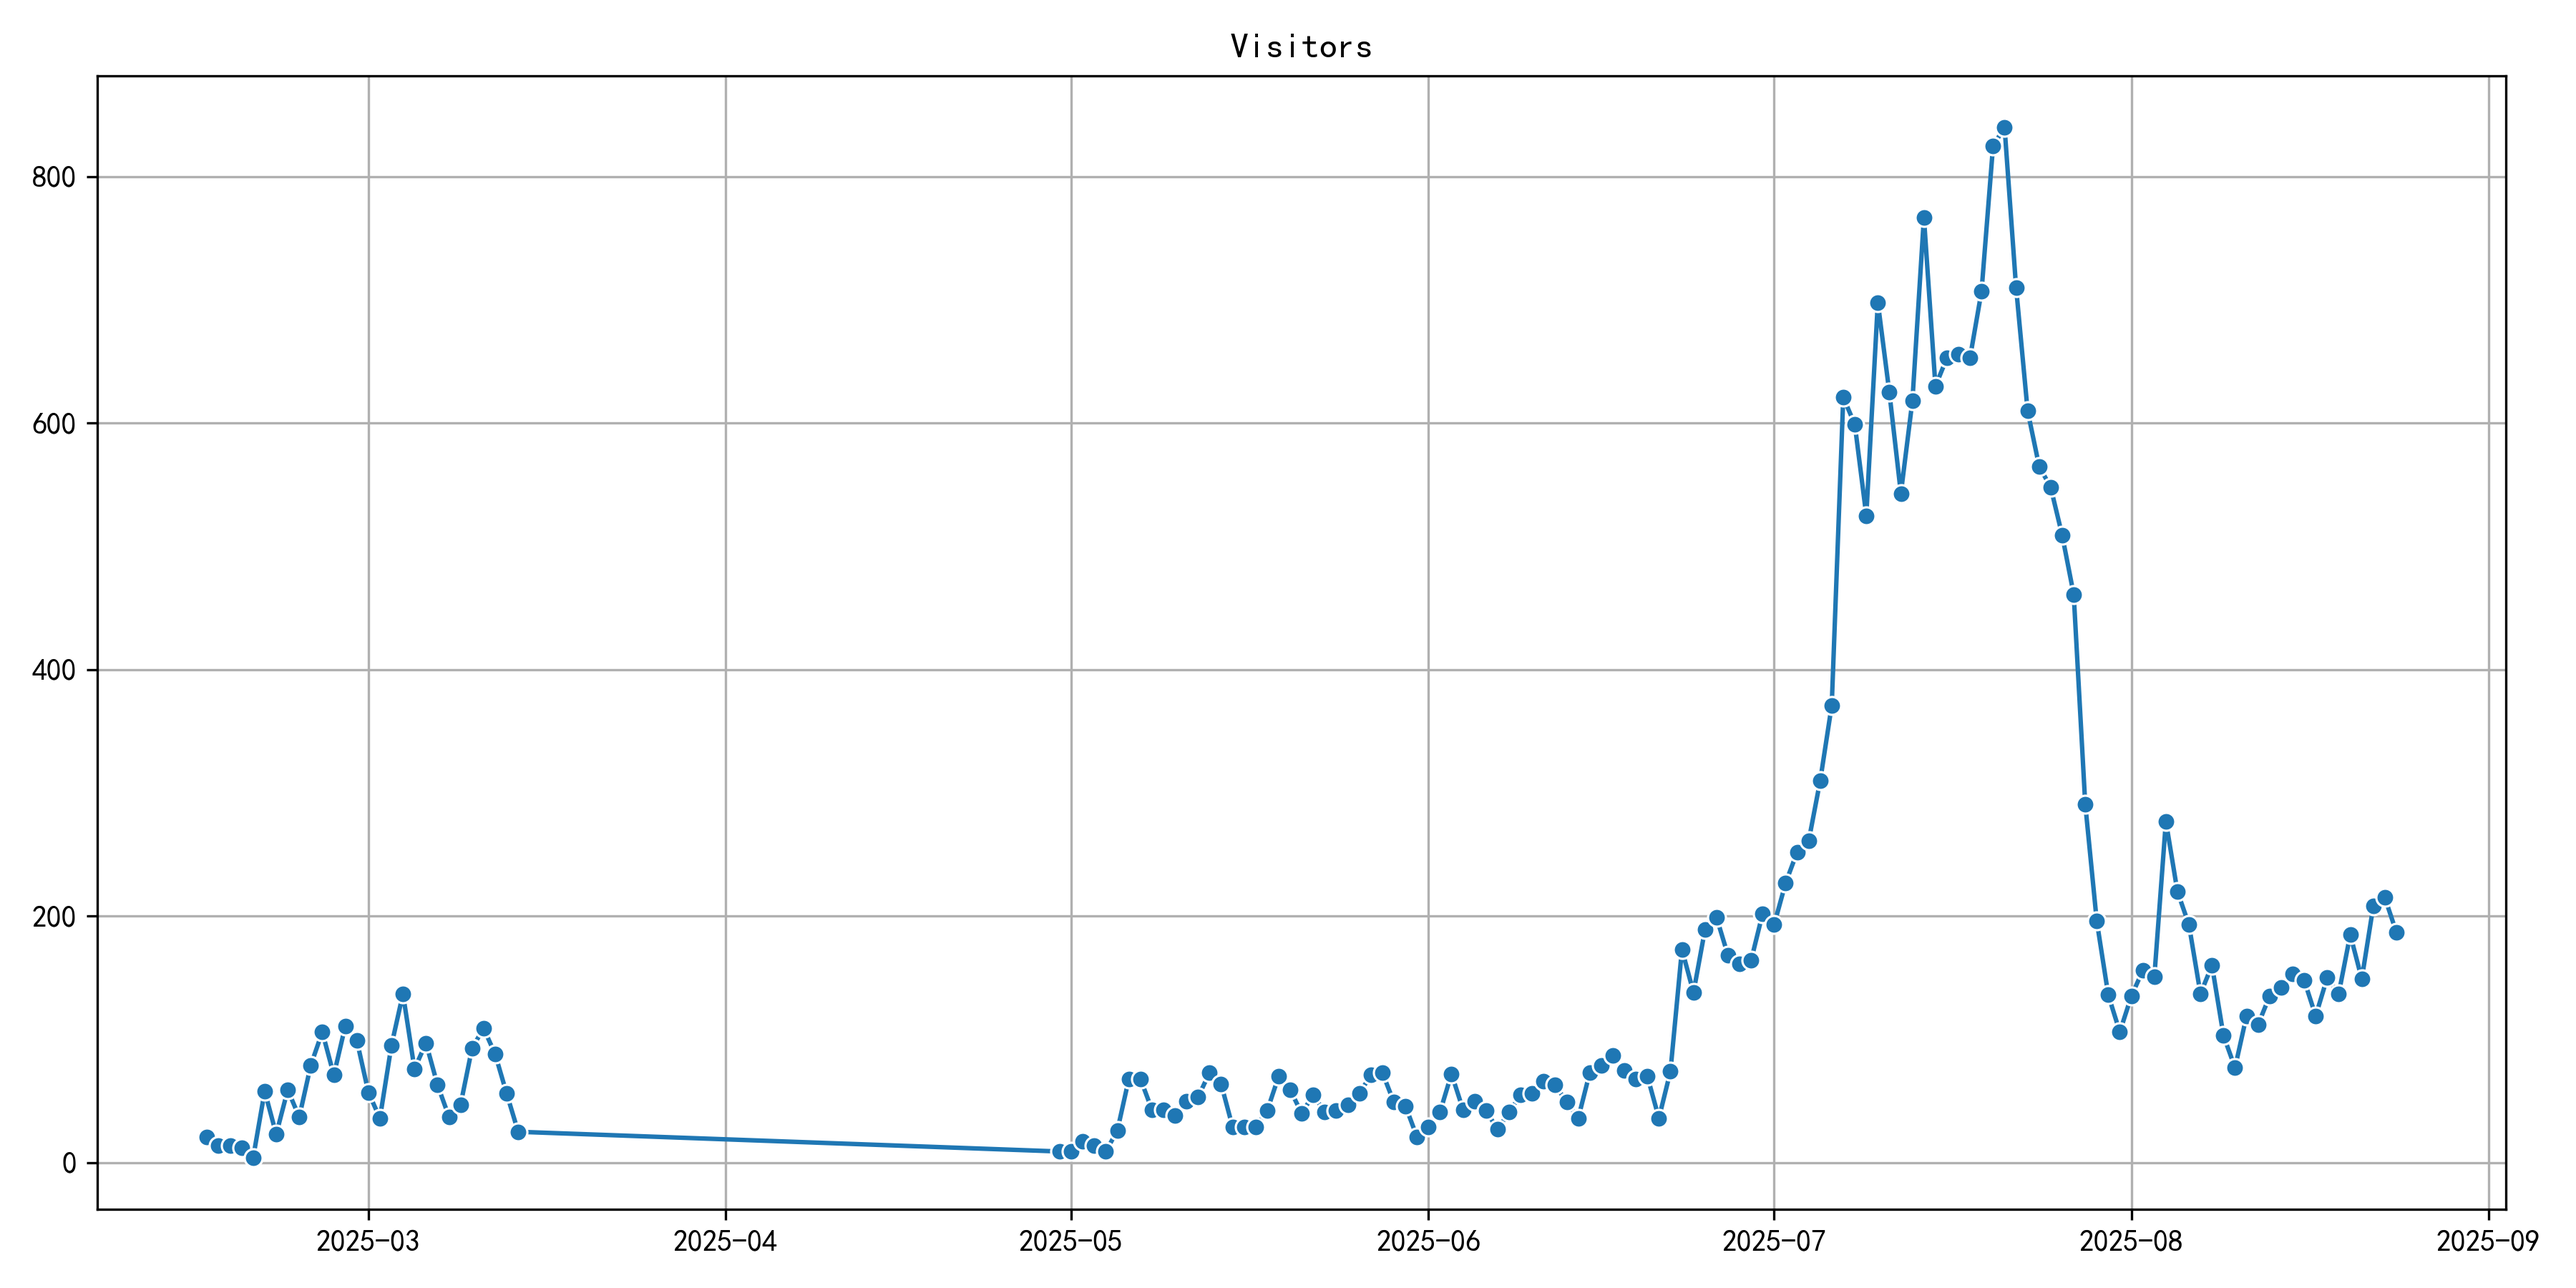
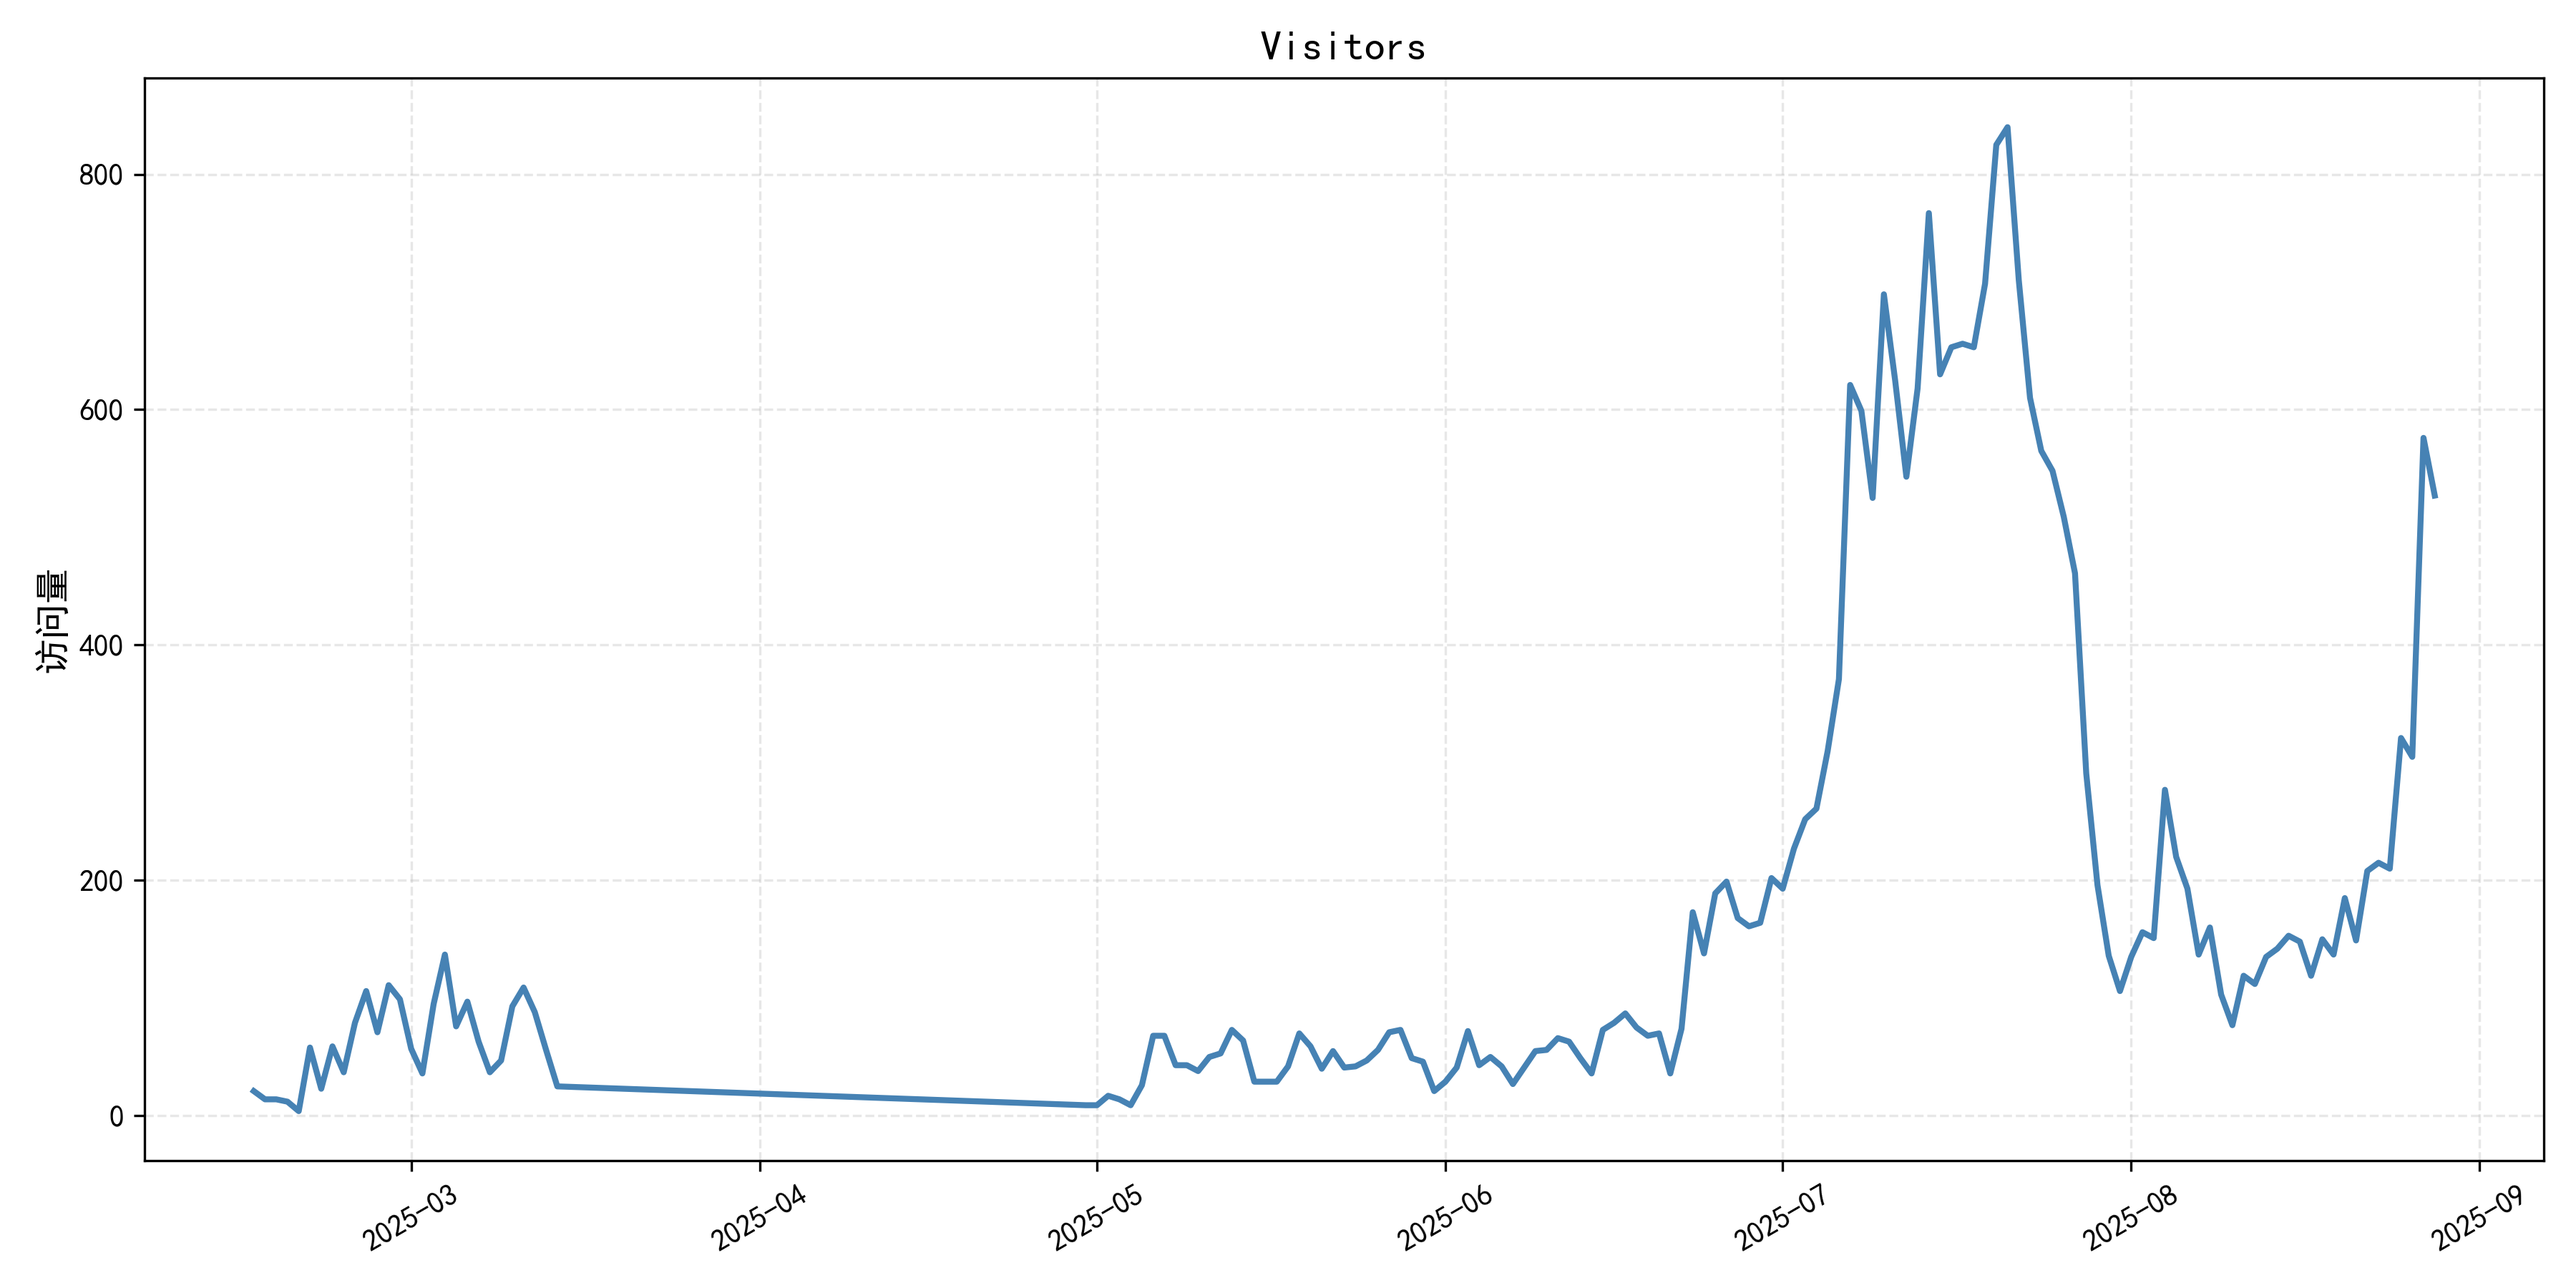
统计图

diff --git a/app/src/main/java/com/hfut/schedule/ui/screen/home/cube/sub/update/UpdateItem.kt b/app/src/main/java/com/hfut/schedule/ui/screen/home/cube/sub/update/UpdateItem.kt
@@ -31,7 +31,7 @@ private fun VersionInfoCard() {
     ) {
         Row {
             TransplantListItem(
-                overlineContent = { Text(text = "2025-08-28") },
+                overlineContent = { Text(text = "2025-08-29") },
                 leadingContent = { Icon(painter = painterResource(id = R.drawable.code), contentDescription = "") },
                 headlineContent = { Text(text = "版本号 ${AppVersion.getVersionCode()}") },
                 modifier = Modifier.weight(.5f)
@@ -57,22 +57,12 @@ fun VersionInfo() {
     }
     DividerTextExpandedWith(text = "新特性") {
         CustomCard (color = cardNormalColor()) {
-            UpdateItems("重构 重写刷新登录状态时的慧新易校、信息门户及智慧社区的登录逻辑","本轮又对早期版本遗留的登录代码进行了重写,改善了登录过程的体验")
-            UpdateItems("新增 教务课表备用数据源")
-            UpdateItems("新增 挂失、解挂入口","位于 查询中心-一卡通-卡包-状态")
-            UpdateItems("新增 修改一卡通和校园网的密码入口","位于 查询中心-一卡通-卡包-修改密码 和 选项-网络-一卡通密码")
-            UpdateItems("修复 信息门户登录成功的提醒过于频繁的Bug")
-            UpdateItems("修复 有庆祝日时首页错位的Bug")
-            UpdateItems("优化 庆祝礼花的效果")
-            UpdateItems("优化 课程表方格课程过长的溢出显示")
-
-//            UpdateItems("修复 登录教务时首次提示失败的Bug")
+//            UpdateItems("修复 登录教务时提示失败后需要重进界面才能登录的Bug")
 //            UpdateItems("新增 慧新易校的课表数据源")
 //            UpdateItems("新增 转场时的形变动画")
 //            UpdateItems("新增 教务成绩计算每学期的平均绩点与均分，以及可以自定义排除的课程")
 //            UpdateItems("新增 共建平台忘记密码、修改密码、注销")
 //            UpdateItems("新增 为部分场景适配新的转场动画")
-
             /*
                         转专业二级界面
             就业二级界面 通知公告二级界面
@@ -97,7 +87,7 @@ fun VersionInfo() {
 //        UpdateItems("新增 学工系统/今日校园的登录")
 //        UpdateItems("修复 体测平台、报修打开白屏的Bug")
             // v5.0 2025-07+ 远期规划
-//        UpdateItems("重构 CAS登录", "完全重写底层，使其支持更多平台的边界接入，修复部分功能登陆失败的Bug、修复外地访问下无法使用邮箱等功能的Bug、修复偶见无法登录教务的Bug、优化刷新登陆状态后仍需等待较长时间才可操作的逻辑、支持对外开放API等", UpdateType.RENEW)
+//        UpdateItems("重构 CAS登录", "完全重写底层，使其支持更多平台的边界接入、支持外地访问下使用邮箱等功能、支持对外开放API等", UpdateType.RENEW)
         }
     }
 }

diff --git a/app/src/main/java/com/hfut/schedule/logic/util/sys/Starter.kt b/app/src/main/java/com/hfut/schedule/logic/util/sys/Starter.kt
@@ -43,13 +43,22 @@ object Starter {
     }
     //传入应用URL打开
     @JvmStatic
-    fun startAppUrl(url : String) {
+    fun startAppUrl(url : String,appName : String? = null) {
         try {
             val intent = Intent(Intent.ACTION_DEFAULT, url.toUri())
             intent.addFlags(Intent.FLAG_ACTIVITY_NEW_TASK)
             MyApplication.context.startActivity(intent)
         } catch (e : Exception) {
-            showToast("打开失败")
+            val name = if(appName == null) {
+                val scheme = url.substringBefore("://")
+                 when(scheme) {
+                    "alipays" -> "支付宝"
+                    // ...
+                    else -> scheme
+                }
+            } else appName
+            
+            showToast("打开${name}失败")
         }
     }
     //传入网页URL打开

diff --git a/app/src/main/java/com/hfut/schedule/ui/screen/home/calendar/communtiy/CommunityCourseTableUI.kt b/app/src/main/java/com/hfut/schedule/ui/screen/home/calendar/communtiy/CommunityCourseTableUI.kt
@@ -708,7 +708,7 @@ private fun transferSummaryCourseInfo(text : courseDetailDTOList) : String {
     if (room != null) {
         room = room.replace("学堂","")
     }
-    return time + "\n" + name + "\n" + room
+    return time + "\n" + name + "\n" + (room ?: "")
 }
 
 private fun transferSummaryCourseInfos(text: List<courseDetailDTOList>): List<String> = text.map { item -> transferSummaryCourseInfo(item) }

diff --git a/tools/SQL-Chart-Python/chart.py b/tools/SQL-Chart-Python/chart.py
@@ -12,7 +12,7 @@ def parse_datetime_flexible(s):
     except ValueError:
         return datetime.strptime(s, "%Y-%m-%d %H:%M:%S")
 
-def merge_small_categories(series, threshold=0.005):
+def merge_small_categories(series, threshold=0.01):
     total = series.sum()
     small_items = [idx for idx, val in series.items() if val / total < threshold]
 
@@ -33,50 +33,7 @@ def merge_small_categories(series, threshold=0.005):
 
     return grouped
 
-def build_usage_query(start: str = None, end: str = None) -> str:
-    base_query = "SELECT DISTINCT * FROM user_app_usage"
-    conditions = []
-
-    tz_cst = pytz.timezone("Asia/Shanghai")
-
-    if start:
-        # 转为东八区时间，再转 UTC 时间
-        dt_start = tz_cst.localize(datetime.strptime(start, "%Y-%m-%d"))
-        utc_start = dt_start.astimezone(pytz.utc)
-        conditions.append(f"date_time >= '{utc_start.strftime('%Y-%m-%d %H:%M:%S')}'")
-
-    if end:
-        # 当天23:59:59 CST，转为 UTC
-        dt_end = tz_cst.localize(datetime.strptime(end, "%Y-%m-%d") + timedelta(hours=23, minutes=59, seconds=59))
-        utc_end = dt_end.astimezone(pytz.utc)
-        conditions.append(f"date_time <= '{utc_end.strftime('%Y-%m-%d %H:%M:%S')}'")
-
-    if conditions:
-        base_query += " WHERE " + " AND ".join(conditions)
-
-    return base_query
-
-
-if(__name__ == "__main__"):
-    # 设置全局字体为支持中文的字体（根据系统设置不同）
-    matplotlib.rcParams['font.sans-serif'] = ['SimHei']  # 黑体，适用于 Windows
-    matplotlib.rcParams['axes.unicode_minus'] = False    # 负号正常显示
-    c_sql_file = "create.sql"
-    with open(c_sql_file, 'r', encoding='utf-8') as file:
-        create_sql_script = file.read()
-    # 读取 .sql 文件内容
-    sql_file = "user_app_usage_rows.sql"
-    with open(sql_file, 'r', encoding='utf-8') as file:
-        sql_script = file.read()
-
-    # 创建内存数据库并执行 SQL 脚本
-    conn = sqlite3.connect(":memory:")
-    cursor = conn.cursor()
-    cursor.executescript(create_sql_script)
-    cursor.executescript(sql_script)
-
-
-    # 从数据库中读取数据
+def get_last_time() :
     query = "SELECT * FROM user_app_usage"  # 替换为你的表名
     df = pd.read_sql_query(query, conn)
 
@@ -88,28 +45,53 @@ if(__name__ == "__main__"):
     # 计算数据库中最新的时间并转为东八区
     utc_latest = df['date_time'].max().replace(tzinfo=pytz.utc)
     cst_latest = utc_latest.astimezone(pytz.timezone('Asia/Shanghai'))
-    latest_time_str = f"截止：{cst_latest.strftime('%Y-%m-%d %H:%M:%S')}"
+    return f"截止：{cst_latest.strftime('%Y-%m-%d %H:%M:%S')}"
 
+def build_user_visit_chart():
+    # 从数据库中读取数据
+    query = "SELECT * FROM user_app_usage"
+    df = pd.read_sql_query(query, conn)
+
+    # 数据预处理：提取日期
+    df['date_time'] = df['date_time'].apply(parse_datetime_flexible)
+    df['date'] = df['date_time'].dt.date
 
     # 按日期统计每天的总访问量
     daily_visits = df.groupby('date').size().reset_index(name='total_visits')
 
-    # 绘制图表
+    # 绘制折线图（美化）
     plt.figure(figsize=(12, 6))
-    
-    sns.lineplot(data=daily_visits, x='date', y='total_visits', marker='o')
-    plt.title("Visitors")
-    plt.xlabel("")
-    plt.ylabel("")
-    # plt.xticks(rotation=0)
-    plt.grid()
-    plt.tight_layout()
 
-    # 保存或展示图表
-    plt.savefig("visits.png",dpi=300)
-    # plt.show()
-    # 从数据库中读取数据
-    query = build_usage_query()  # 饼图数据源
+    sns.lineplot(
+        data=daily_visits,
+        x='date',
+        y='total_visits',
+        linewidth=2.0,          # 线条粗细
+        color='steelblue'       # 线条颜色
+    )
+
+    plt.title("Visitors", fontsize=14, fontweight='bold')
+    plt.xlabel("")
+    plt.ylabel("访问量", fontsize=12)
+
+    # 美化坐标轴
+    plt.xticks(rotation=30, fontsize=10)  # 日期旋转 30°
+    plt.yticks(fontsize=10)
+    plt.grid(alpha=0.3, linestyle="--")   # 网格线更淡
+
+    plt.tight_layout()
+    plt.savefig("visits.png", dpi=300)
+
+def build_user_pie_chart() :
+    query = """
+SELECT *
+FROM (
+    SELECT u.*,
+           ROW_NUMBER() OVER (PARTITION BY user_name, student_id) AS rn
+    FROM user_app_usage u
+) t
+WHERE rn = 1;
+"""
     df = pd.read_sql_query(query, conn)
     # 饼图
     # 确保 student_id 是字符串
@@ -119,7 +101,7 @@ if(__name__ == "__main__"):
     df['student_prefix'] = df['student_id'].str[:4]
 
     # 2*2布局
-    fig, axes = plt.subplots(2, 2, figsize=(18, 6))
+    fig, axes = plt.subplots(2, 2, figsize=(18, 12))
 
     # campus 饼图
     df['campus'].value_counts().plot.pie(
@@ -130,7 +112,7 @@ if(__name__ == "__main__"):
     )
 
     # department 饼图
-    merge_small_categories(df['department'].value_counts()).plot.pie(
+    merge_small_categories(df['department'].value_counts(),0.005).plot.pie(
         ax=axes[0][1],
         autopct='%1.1f%%',
         startangle=140,
@@ -138,7 +120,7 @@ if(__name__ == "__main__"):
     )
 
     # student_id 前缀 饼图
-    df['student_prefix'].value_counts().plot.pie(
+    merge_small_categories(df['student_prefix'].value_counts(),0.01).plot.pie(
         ax=axes[1][0],
         autopct='%1.1f%%',
         startangle=140,
@@ -146,7 +128,7 @@ if(__name__ == "__main__"):
     )
 
     # student_id 前缀 饼图
-    merge_small_categories(df['system_version'].value_counts()).plot.pie(
+    merge_small_categories(df['system_version'].value_counts(),0.015).plot.pie(
         ax=axes[1][1],
         autopct='%1.1f%%',
         startangle=140,
@@ -159,10 +141,10 @@ if(__name__ == "__main__"):
             ax.set_ylabel("")
 
     plt.tight_layout()
-    fig.text(0.5, -0.05, latest_time_str, ha='center', fontsize=10)
+    fig.text(0.5, -0.05, get_last_time(), ha='center', fontsize=10)
     plt.savefig("pie_charts.png", bbox_inches="tight",dpi=300)
 
-
+def build_app_version_chart() :
     # 从数据库中获取最新版本数据
     query = """
 WITH usage_with_max_date AS (
@@ -210,8 +192,33 @@ ORDER BY app_version_code DESC, student_id;
     )
 
     plt.ylabel("")
+    plt.figtext(0.25, 0.5, get_last_time(), ha='center', fontsize=10)
     plt.title('应用版本分布', fontsize=20)  # 标题大一点
     plt.tight_layout()
     plt.savefig("app_version.png", bbox_inches="tight", dpi=300)  # 提高分辨率)
+
+
+if(__name__ == "__main__"):
+    # 设置全局字体为支持中文的字体（根据系统设置不同）
+    matplotlib.rcParams['font.sans-serif'] = ['SimHei']  # 黑体，适用于 Windows
+    matplotlib.rcParams['axes.unicode_minus'] = False    # 负号正常显示
+    c_sql_file = "create.sql"
+    with open(c_sql_file, 'r', encoding='utf-8') as file:
+        create_sql_script = file.read()
+    # 读取 .sql 文件内容
+    sql_file = "user_app_usage_rows.sql"
+    with open(sql_file, 'r', encoding='utf-8') as file:
+        sql_script = file.read()
+
+    # 创建内存数据库并执行 SQL 脚本
+    conn = sqlite3.connect(":memory:")
+    cursor = conn.cursor()
+    cursor.executescript(create_sql_script)
+    cursor.executescript(sql_script)
+
+    build_user_visit_chart()
+    build_user_pie_chart()
+    build_app_version_chart()
+    
     # 关闭数据库连接
     conn.close()

diff --git a/README.md b/README.md
@@ -97,6 +97,8 @@ IDE: Android Studio Meerkat
 
 ## [联系方式](zsh0908@outlook.com) zsh0908@outlook.com
 
+## [统计报表](/docs/CHART.md)
+
 ## [其他内容(P2)](/docs/OTHER.md)
 
 [![Star history chart](https://api.star-history.com/svg?repos=Chiu-xaH/HFUT-SChedule&type=Date)](https://www.star-history.com/#Chiu-xaH/HFUT-Schedule&Date)

diff --git a/docs/CHART.md b/docs/CHART.md
@@ -1,0 +1,7 @@
+# 统计报表
+
+![流量统计](/tools/SQL-Chart-Python/visits.png)
+
+![版本分布](/tools/SQL-Chart-Python/app_version.png)
+
+![用户分布](/tools/SQL-Chart-Python/pie_charts.png)
